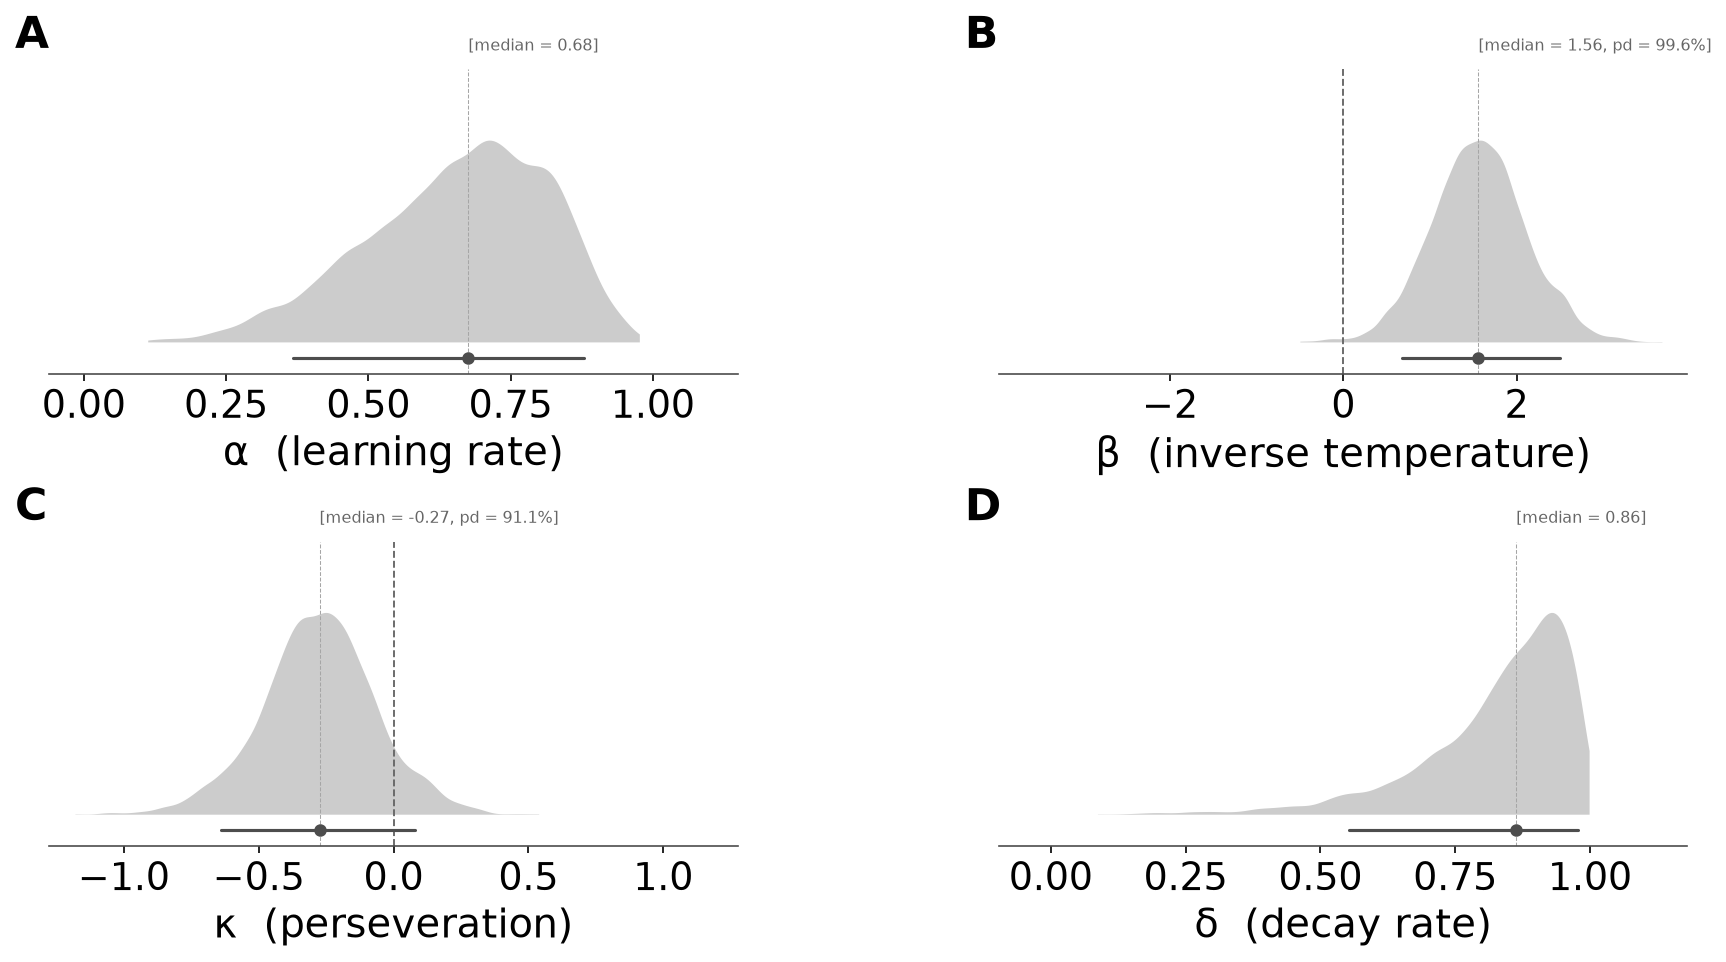
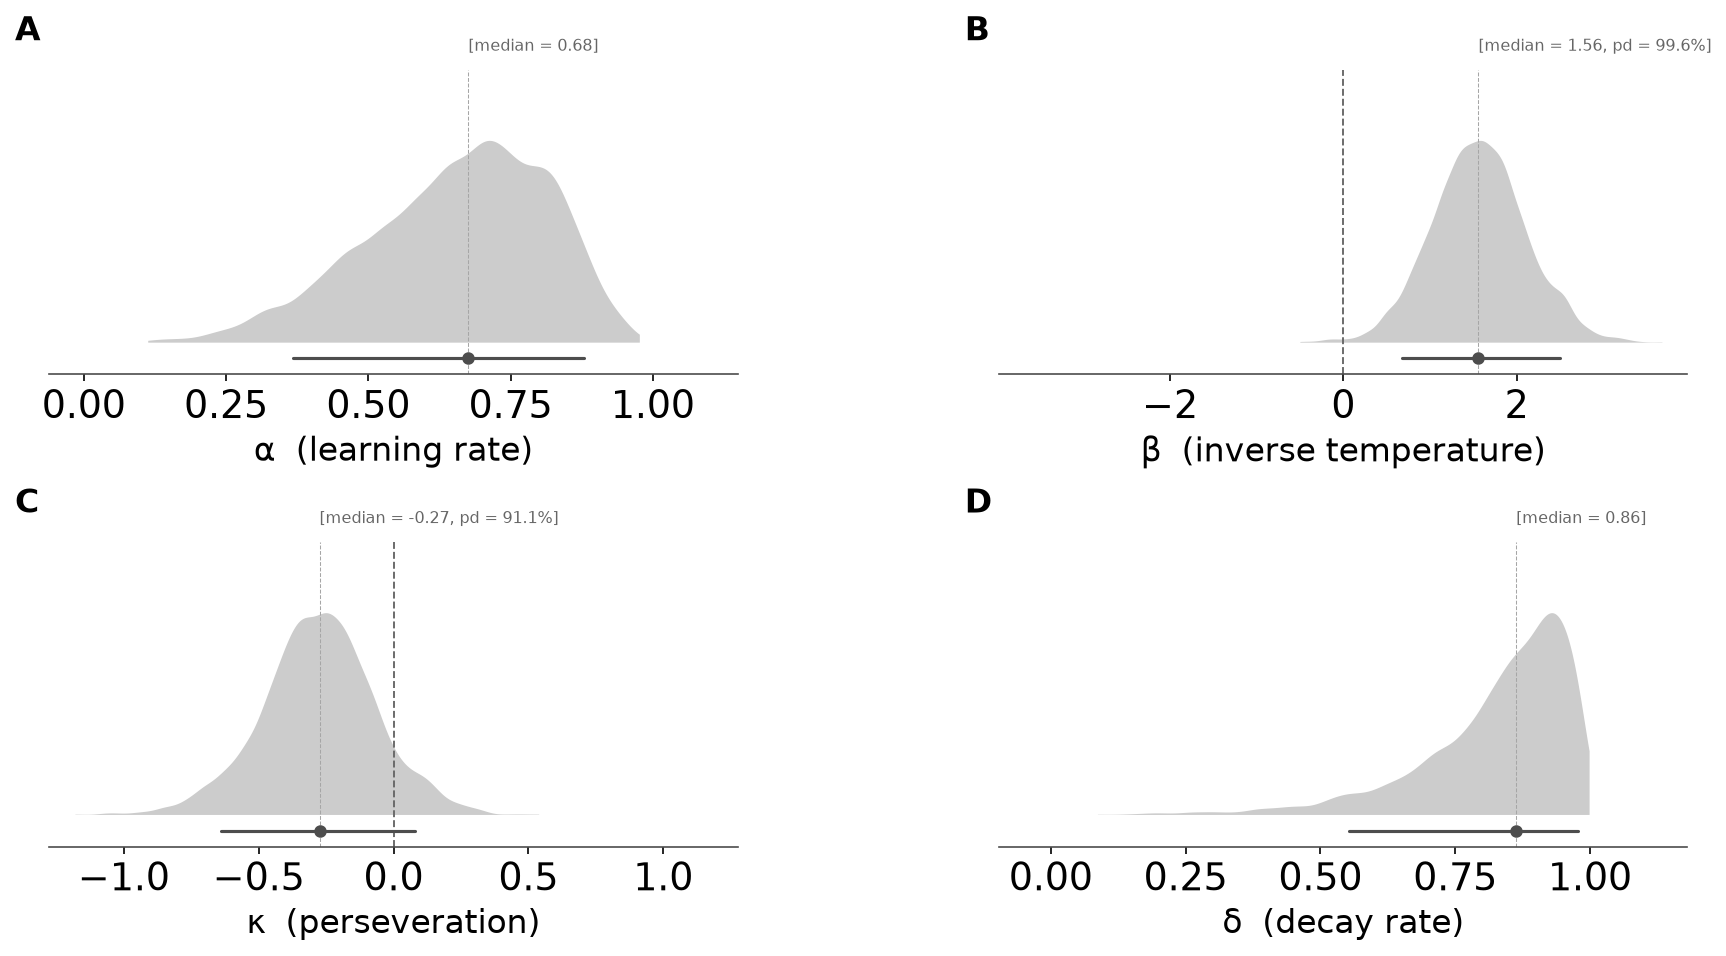
M1 posteriors: set xlabel and panel labels to font 16
Claude-Session: https://claude.ai/code/session_012x9xnxMCjZRKf3pY757v2o

diff --git a/analysis/param_recovery/plot_param_recovery_m1_py.py b/analysis/param_recovery/plot_param_recovery_m1_py.py
@@ -81,7 +81,7 @@ def posterior_panel(ax, draws, xlabel, is_effect=False):
         xl = xlim_noneffect(draws)
     ax.set_xlim(*xl)
     ax.set_ylim(CI_Y - 0.08, 1.35)
-    ax.set_xlabel(xlabel, fontsize=BASE_FS - 1, color="black")
+    ax.set_xlabel(xlabel, fontsize=16, color="black")
 
     # style: no y-axis, dark gray x-axis
     ax.spines["top"].set_visible(False)
@@ -109,7 +109,7 @@ params = [
 for i, (ax, (draws, xlabel, is_effect)) in enumerate(zip(axes, params)):
     posterior_panel(ax, draws, xlabel, is_effect=is_effect)
     ax.text(-0.05, 1.18, panel_labels[i], transform=ax.transAxes,
-            fontsize=BASE_FS + 1, fontweight="bold", va="top")
+            fontsize=16, fontweight="bold", va="top")
 
 fig.savefig("figures/param_recovery_m1_population.png", dpi=150,
             bbox_inches="tight", facecolor="white")
